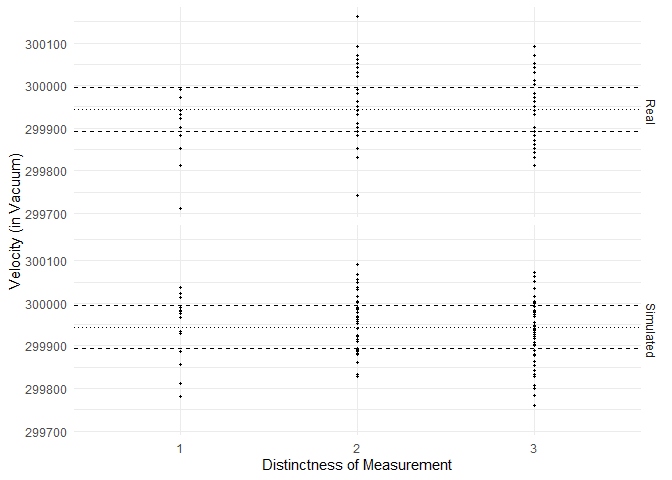
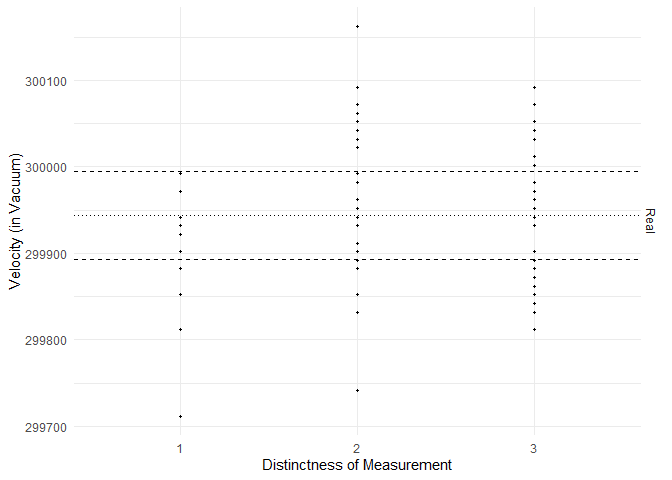
changed some graphs so it no longer shows irrelevant data

diff --git a/data-science-curriculum-build/data-science-curriculum-build/challenges/c02-michelson-assignment.md b/data-science-curriculum-build/data-science-curriculum-build/challenges/c02-michelson-assignment.md
@@ -347,12 +347,22 @@ higher than the real velocity.
 ### **q5** You have access to a few other variables. Construct a few visualizations of `VelocityVacuum` against these other factors. Are there other patterns in the data that might help explain the difference between Michelson’s estimate and `LIGHTSPEED_VACUUM`?
 
 ``` r
+v_mean <-
+  df_q2 %>%
+  summarize(m = mean(VelocityVacuum)) %>%
+  pull(m)
+v_sd <-
+  df_q2 %>%
+  summarize(s = sd(VelocityVacuum)) %>%
+  pull(s)
+
+## Visualize
 set.seed(101)
 df_q2 %>%
   mutate(Simulated = rnorm(n(), mean = v_mean, sd = v_sd)) %>%
   rename(Real = VelocityVacuum) %>%
   pivot_longer(
-    cols = c(Simulated, Real),
+    cols = c(Real),
     names_to = "source",
     values_to = "velocity"
   ) %>%
@@ -386,7 +396,7 @@ df_q2 %>%
   facet_grid(source~.) +
   theme_minimal() +
   labs(
-    x = "Temperature of Measurement (1879)",
+    x = "Distinctness of Measurement",
     y = "Velocity (in Vacuum)"
   )
 ```
@@ -402,7 +412,7 @@ df_q2 %>%
   mutate(Simulated = rnorm(n(), mean = v_mean, sd = v_sd)) %>%
   rename(Real = VelocityVacuum) %>%
   pivot_longer(
-    cols = c(Simulated, Real),
+    cols = c(Real),
     names_to = "source",
     values_to = "velocity"
   ) %>%
@@ -443,8 +453,6 @@ df_q2 %>%
 
     ## `summarise()` has grouped output by 'Distinctness'. You can override using the
     ## `.groups` argument.
-    ## `geom_line()`: Each group consists of only one observation. ℹ Do you need to
-    ## adjust the group aesthetic?
     ## `geom_line()`: Each group consists of only one observation. ℹ Do you need to
     ## adjust the group aesthetic?
 
